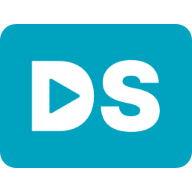
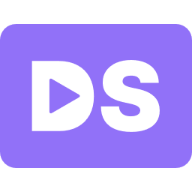
change to purple theme

diff --git a/src/styles/global.css b/src/styles/global.css
@@ -15,8 +15,9 @@ html[data-theme="light"] {
   --layout-border: rgb(222, 228, 234);
   --sidebar-background: rgb(255, 255, 255);
   --header-text: #000;
-  --accent: rgb(0, 163, 191);
-  --accent-dark: #000d8a;
+  --accent: #5e43f3;
+  --accent-hover: #a688fa;
+  --accent-dark: #7a5af5;
   --shadow: 22, 26, 29;
   --interactive: rgb(16, 18, 20);
   --body-text: rgb(16, 18, 20);
@@ -49,7 +50,8 @@ html[data-theme="dark"] {
   --sidebar-background: var(--site-background);
   --header-text: rgb(222, 228, 234);
   --interactive: rgb(222, 228, 234);
-  --accent: rgb(0, 163, 191);
+  --accent: #9171f8;
+  --accent-hover: #a688fa;
   --accent-dark: #000d8a;
   --shadow: 16, 18, 20;
   --icons: var(--meta-data);
